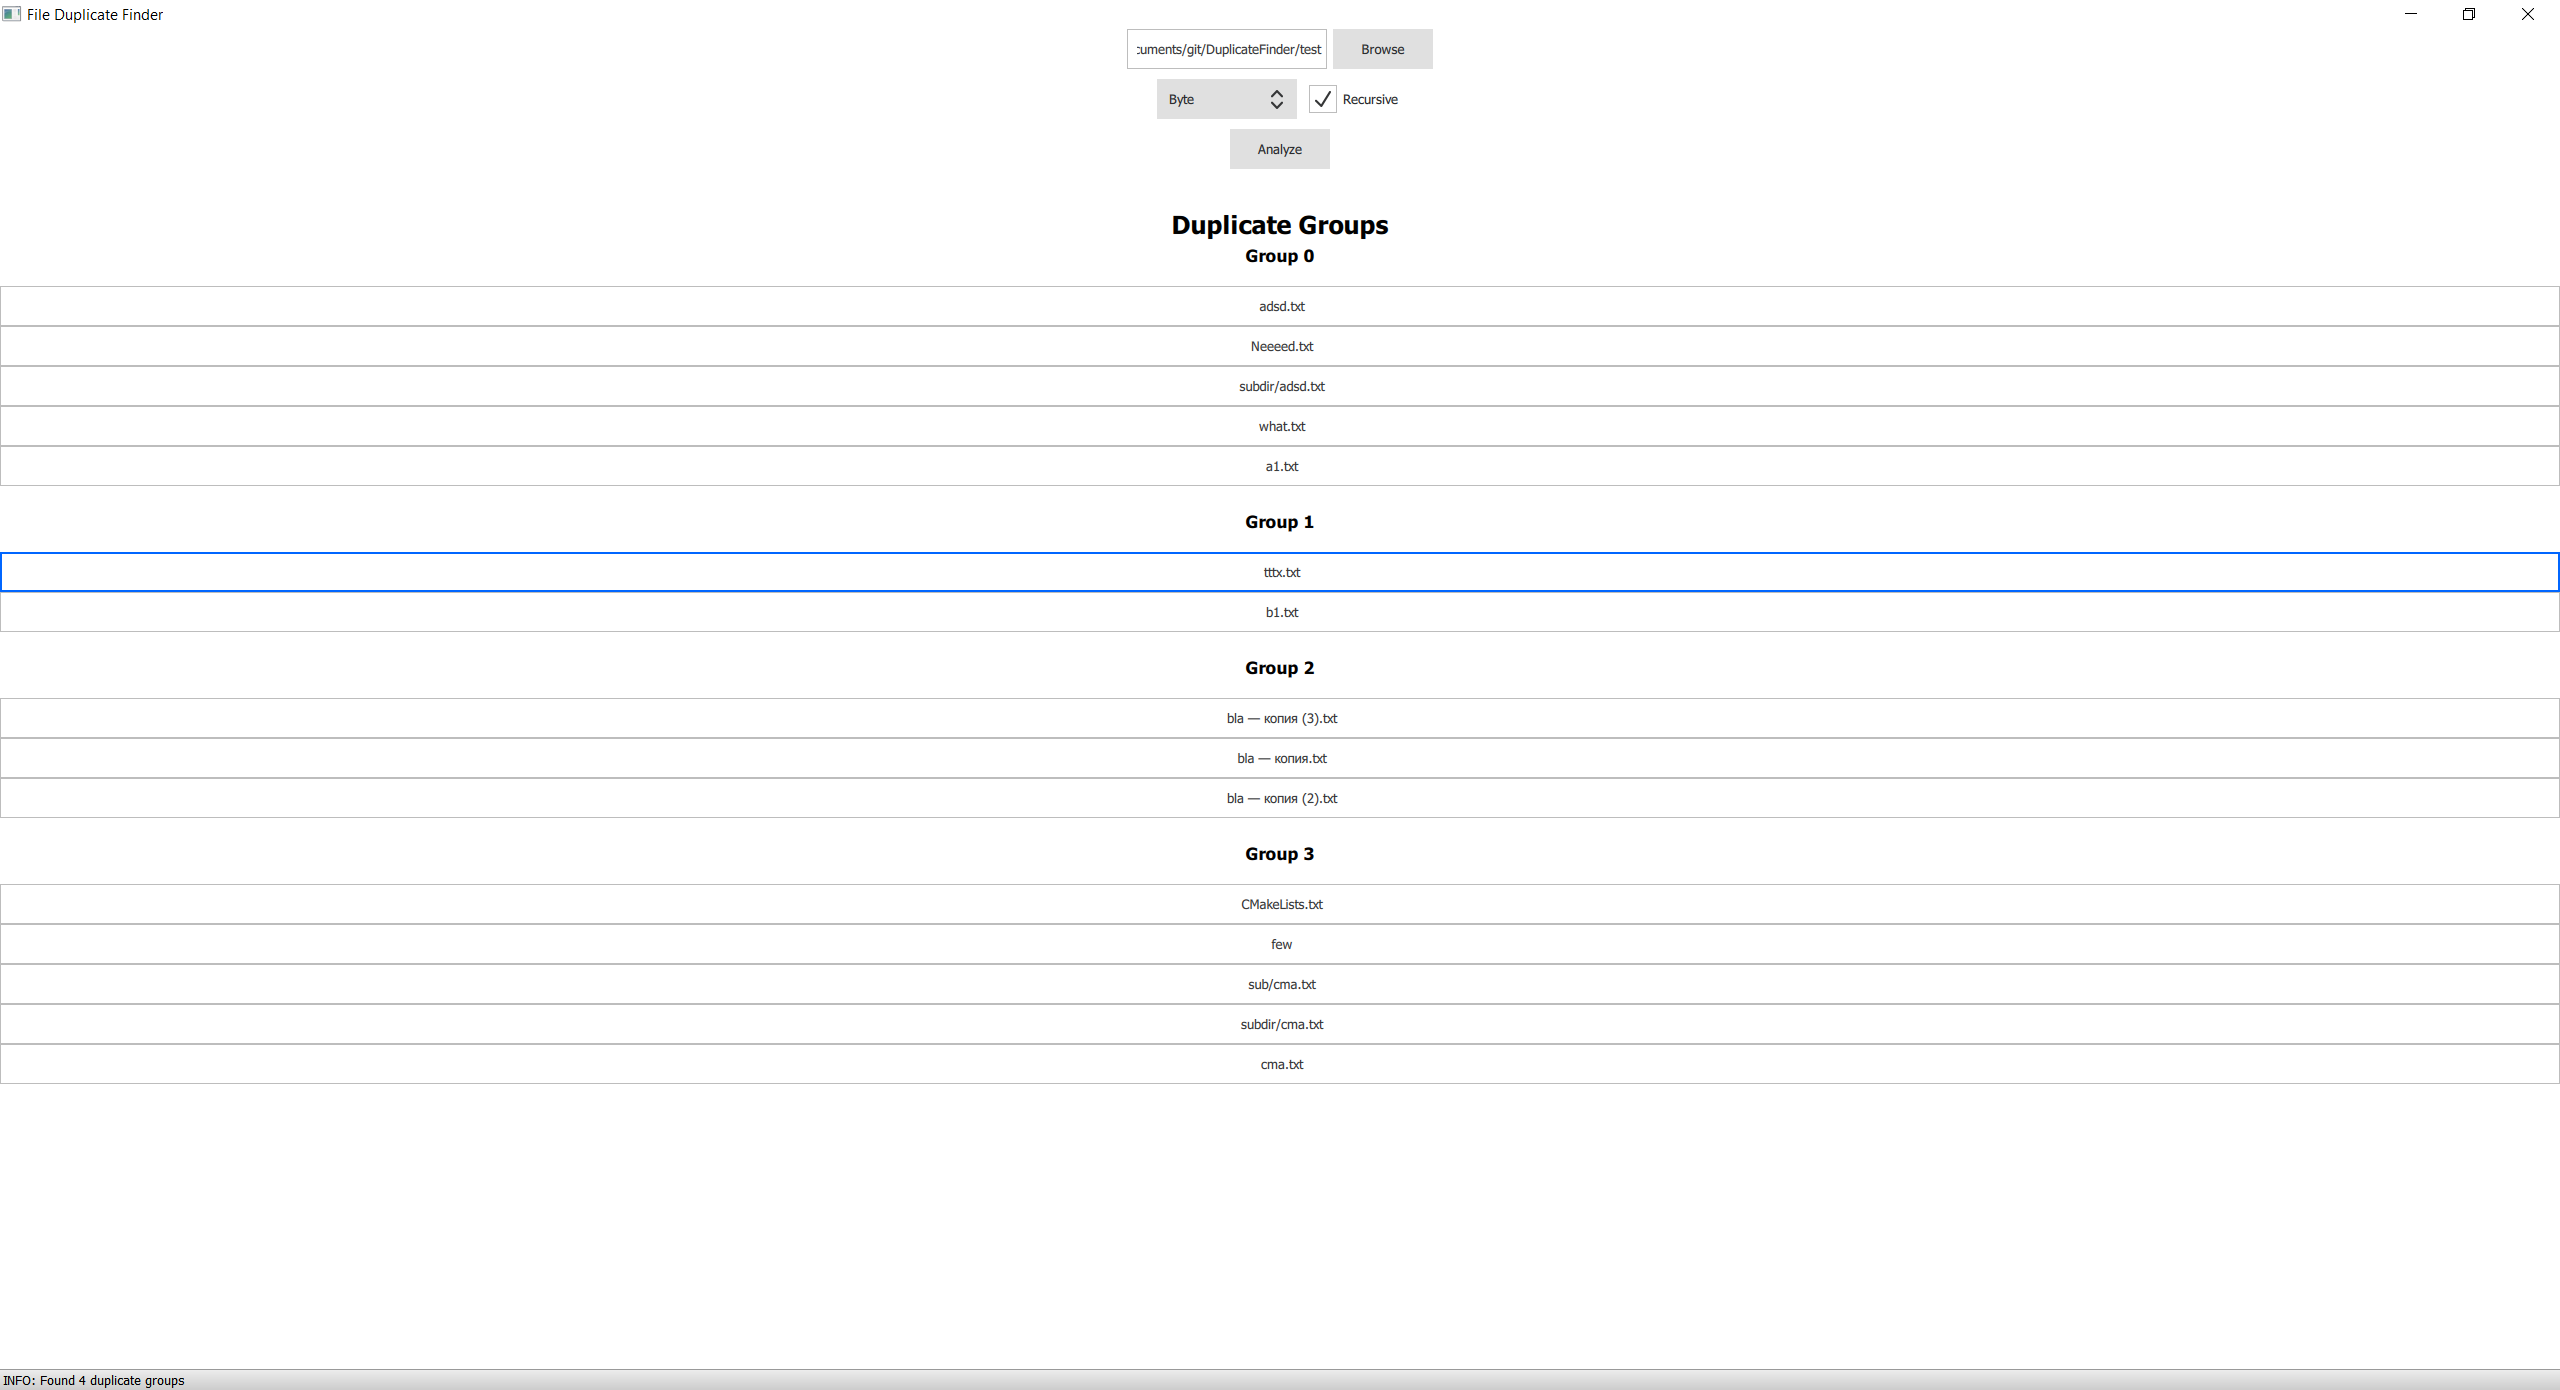
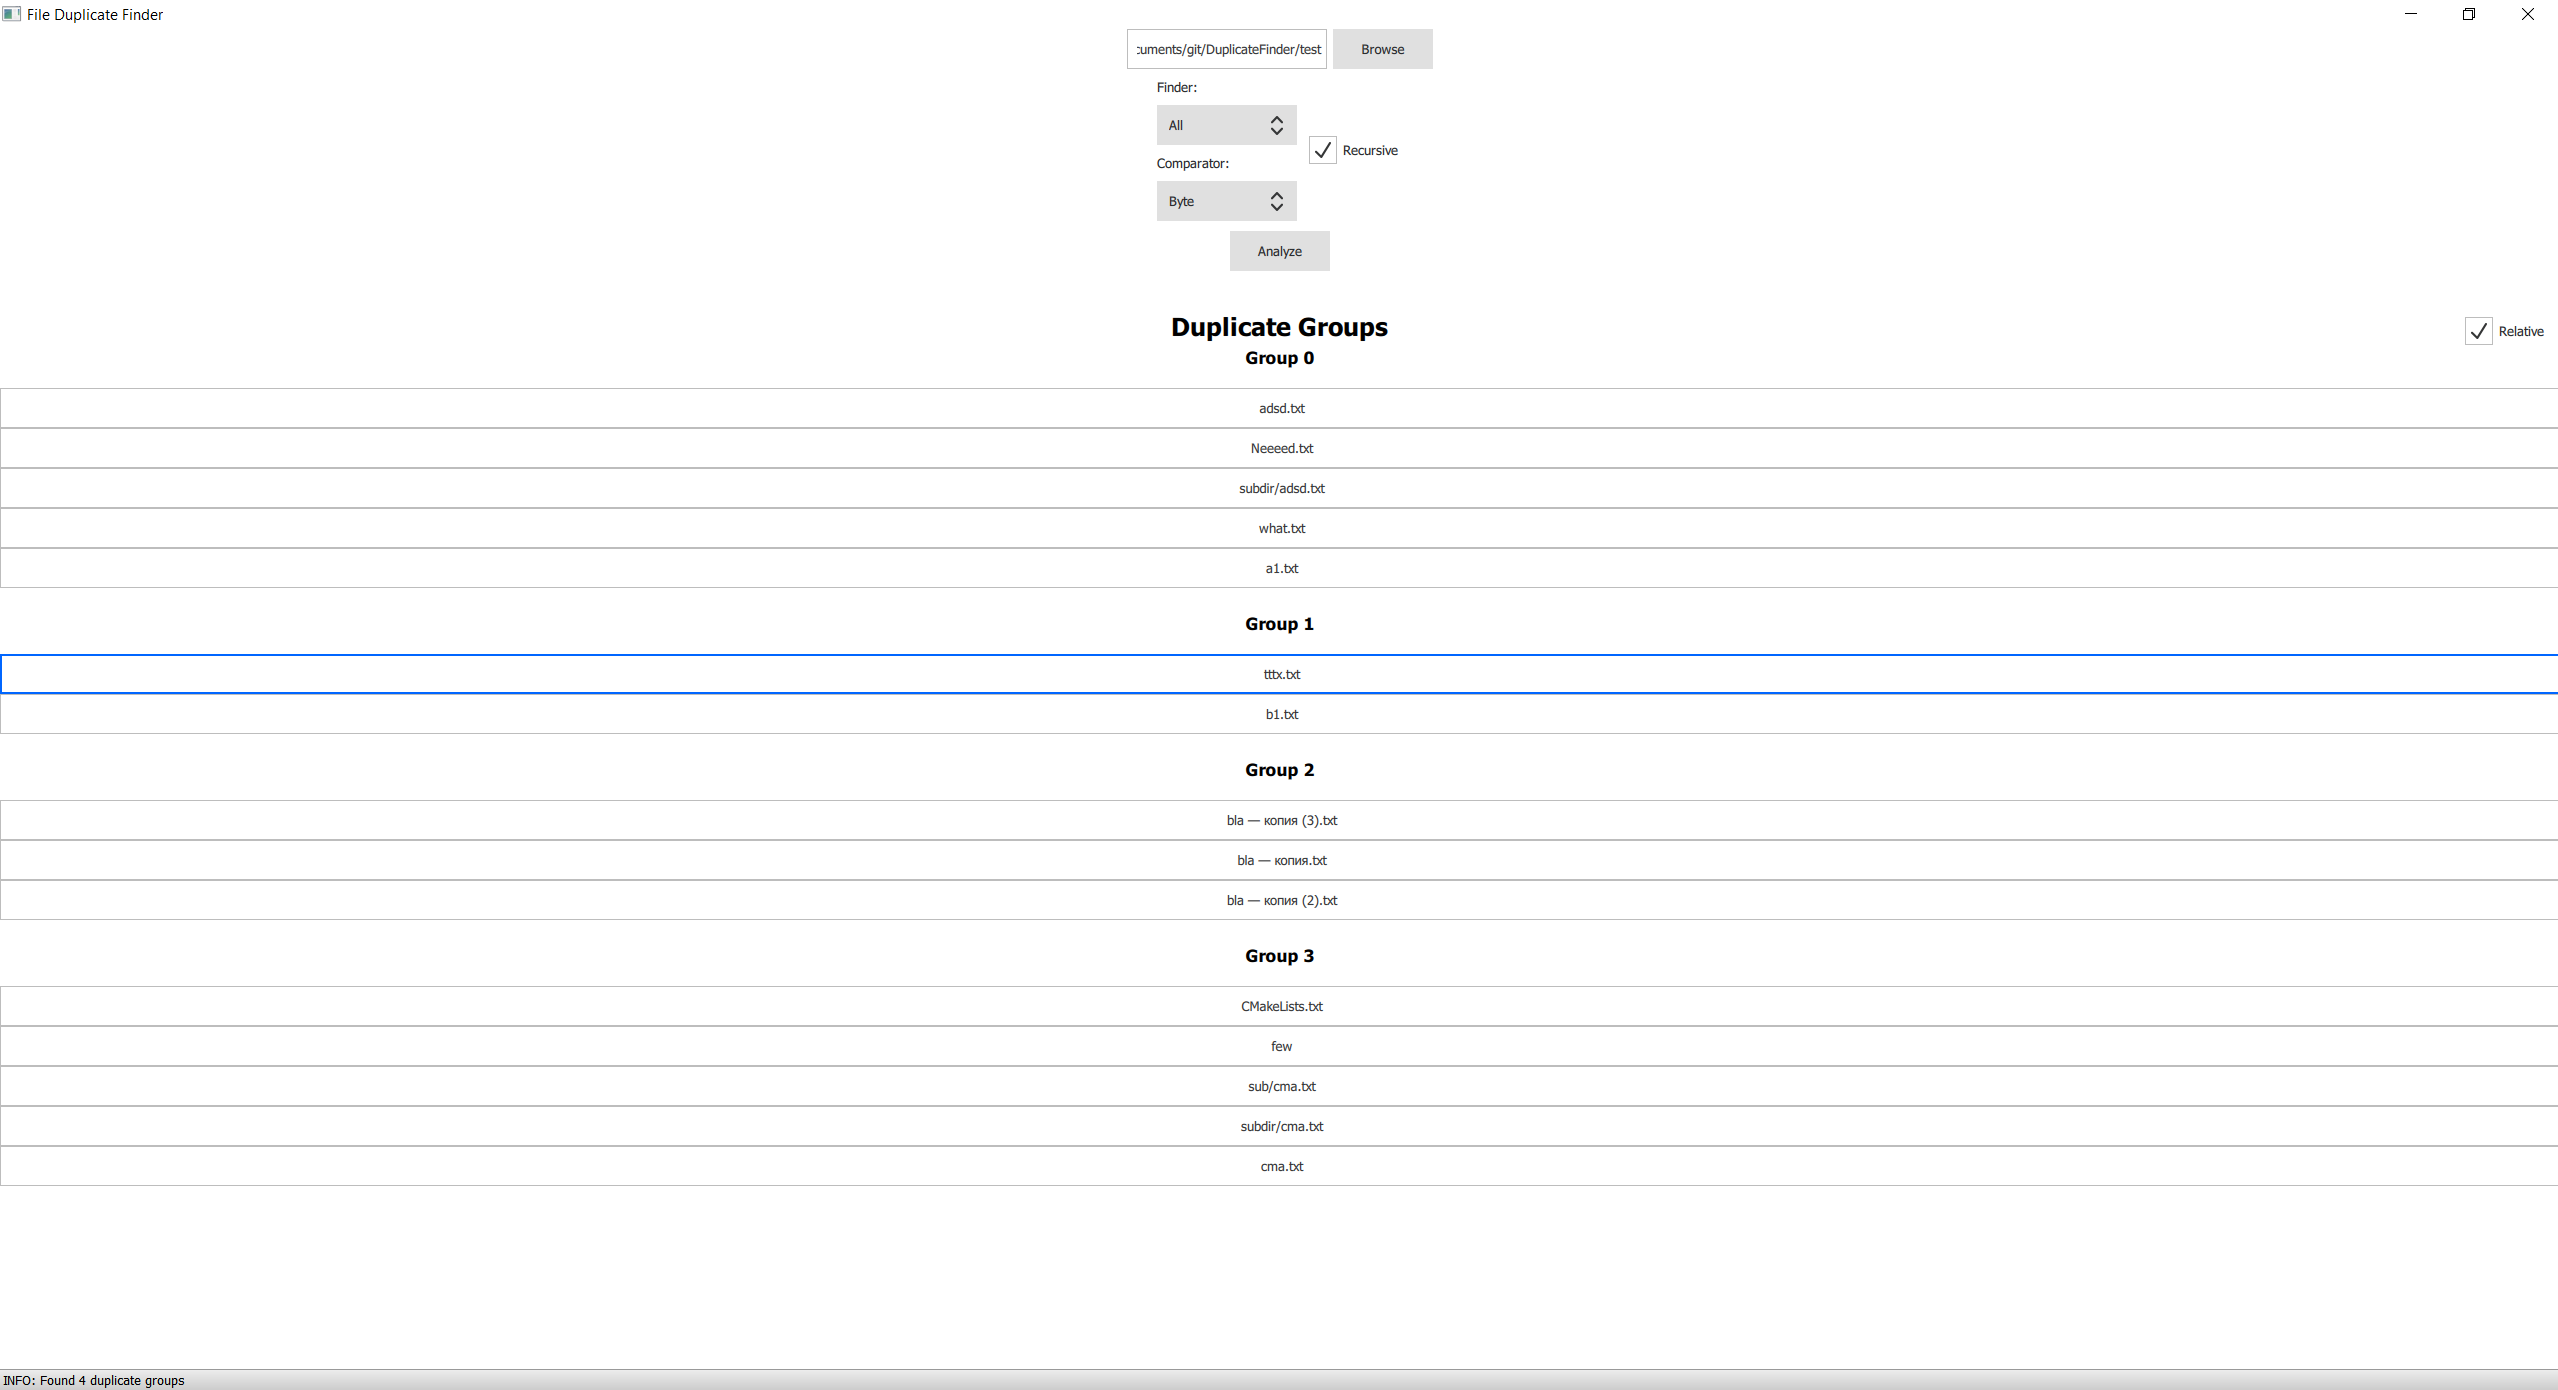
Updated README

diff --git a/README.md b/README.md
@@ -22,9 +22,15 @@ make
 
 ## Usage
 * Run DuplicateFinder
-* Choose directory and file comparator
+* Choose directory
+* Choose finder
+  * __All__ - find duplicates for all files in all subdirectories
+  * __Per Directory__ - find duplicates only per directory
+* Choose comparator
+  * __Byte__ - compare by byte content
+  * __Hash__ - compare by SHA1 hash
 * Click "Analyze" button
-* As result you will see duplicate groups with relative paths
+* As result you will see groups of duplicates
 ![Application](doc/images/app.png)
 
 ## Known limitations
